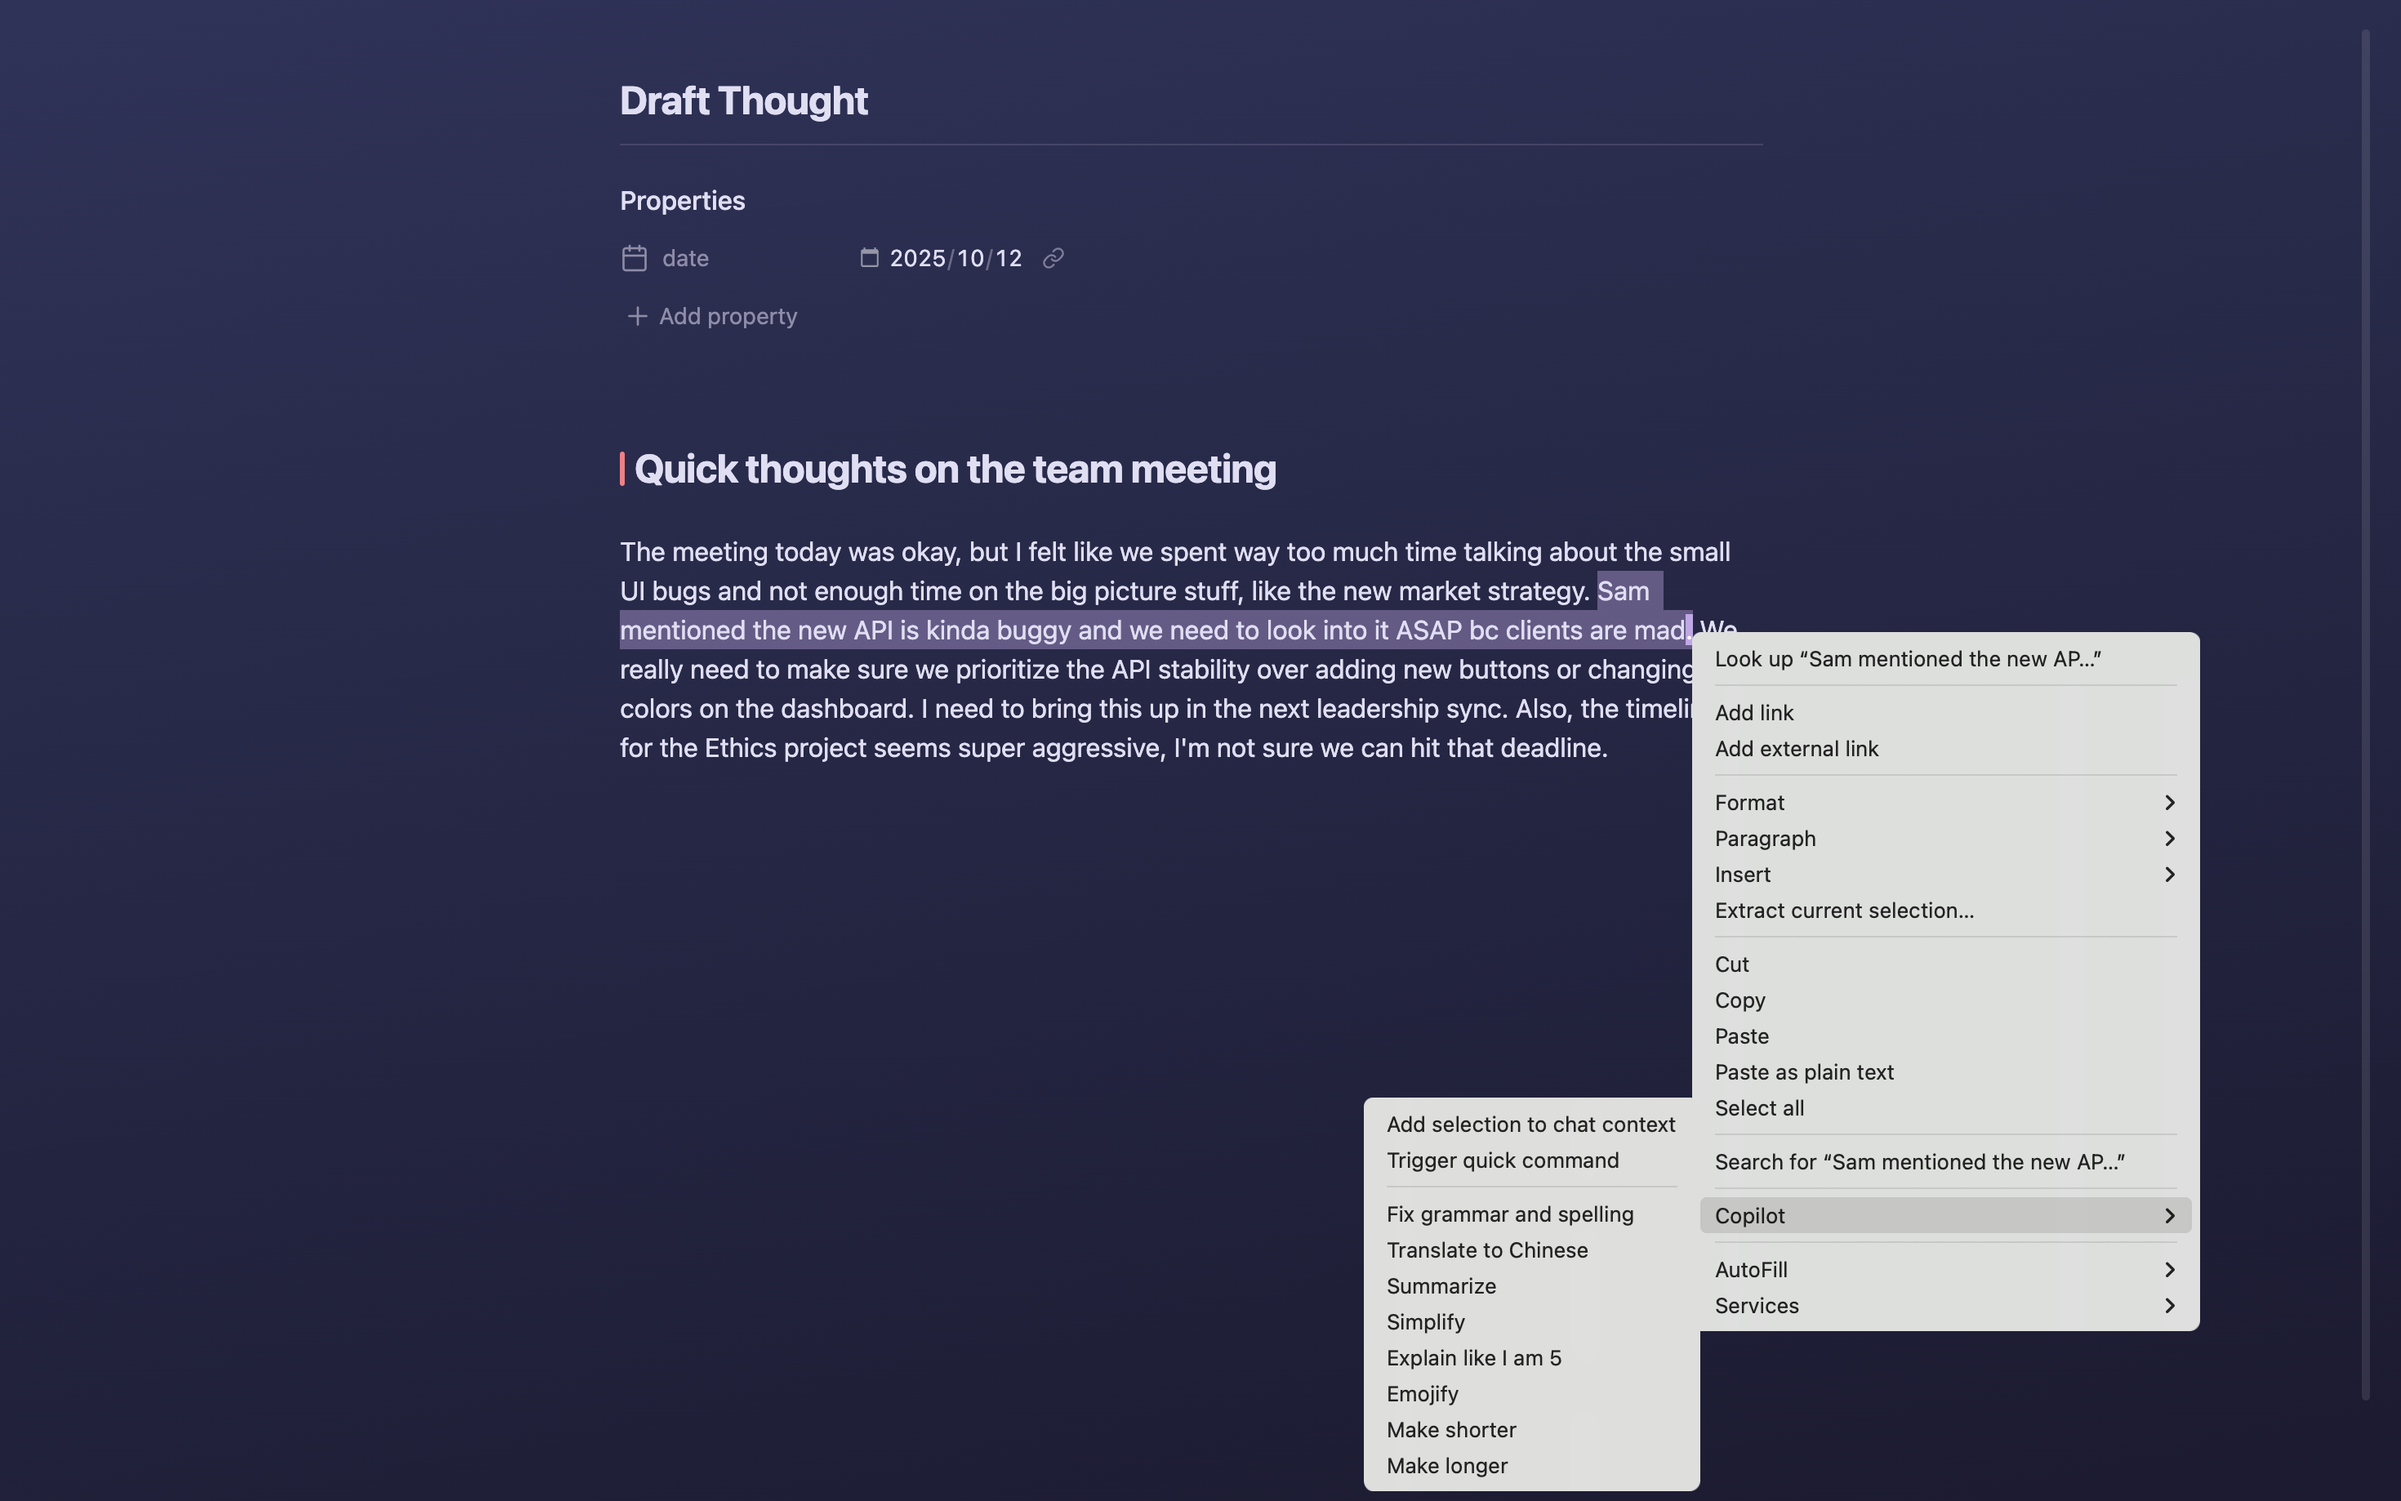
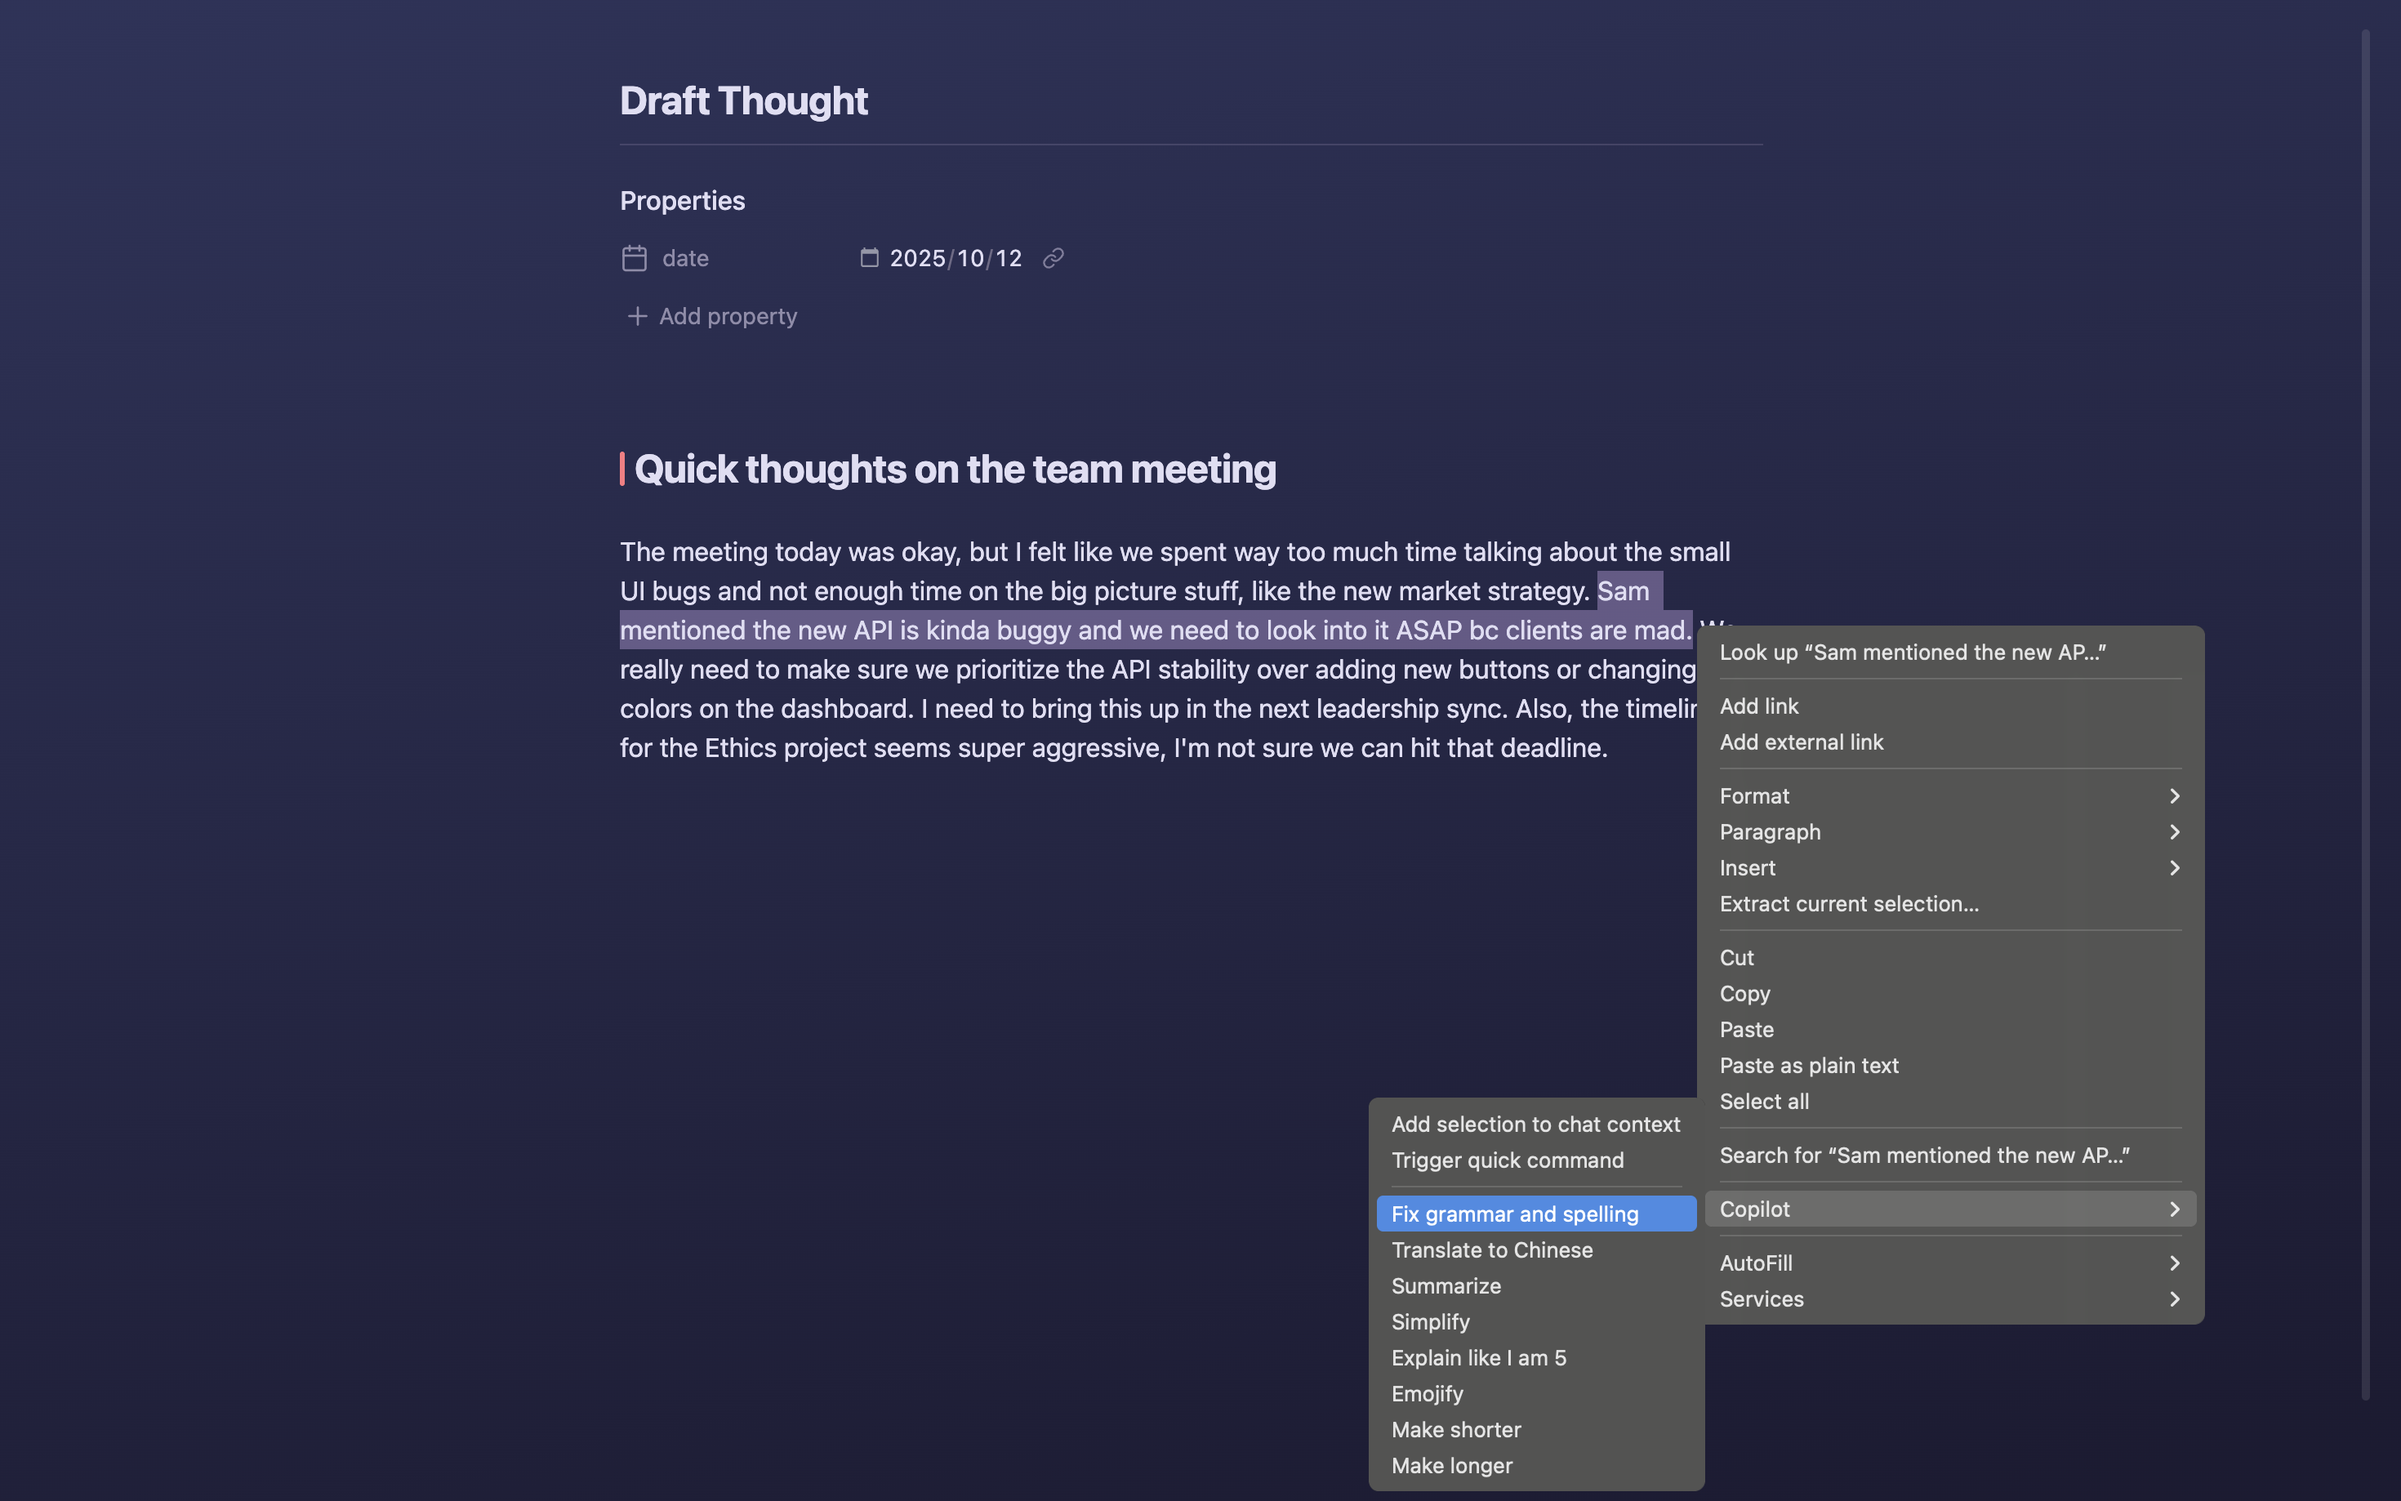
added create command, quick command and add selection to context section

Changed region(s): [[0.5571, 0.4032, 0.9286, 1.0]]

diff --git a/README.md b/README.md
@@ -85,7 +85,7 @@ Read the [Changelog](https://github.com/logancyang/obsidian-copilot/releases/tag
 **Free User**
 
 1. Go to **Obsidian → Settings → Copilot → Basic** and click **Set Keys**.
-2. Choose your AI provider(s) (e.g., **OpenRouter, Gemini, OpenAI, Anthropic, Cohere**) and paste ****your ****API ****key(s)**. OpenRouter is recommended.**
+2. Choose your AI provider(s) (e.g., **OpenRouter, Gemini, OpenAI, Anthropic, Cohere**) and paste your API key(s). **OpenRouter is recommended.**
 
 **Copilot Plus/Believer**
 
@@ -96,7 +96,7 @@ Read the [Changelog](https://github.com/logancyang/obsidian-copilot/releases/tag
 
 ### Free User
 
-**Chat Mode: reference notes and discuss ideas with Copilot**
+#### **Chat Mode: reference notes and discuss ideas with Copilot**
 
 Use `@` to add context and chat with your note.
 
@@ -105,43 +105,68 @@ Use `@` to add context and chat with your note.
 </p>
 
 Ask Copilot:
-  > "Summarize [[Q3 Retrospective]] and identify the top 3 action items for Q4 based on the notes in {{01-Projects}}"
+  > *Summarize [[Q3 Retrospective]] and identify the top 3 action items for Q4 based on the notes in {01-Projects}.*
 
 <p align="center">
     <img src="./images/Chat-Mode.png" alt="Chat Mode" width="700" height="394">
 </p>
 
-**Vault QA Mode: chat with your entire vault**
+#### **Vault QA Mode: chat with your entire vault**
 
 Ask Copilot:
-  > "What are the recurring themes in my research regarding the intersection of AI and SaaS?"
+  > *What are the recurring themes in my research regarding the intersection of AI and SaaS?*
 
 
 <p align="center">
     <img src="./images/Vault-Mode.png" alt="Vault Mode" width="700" height="394">
 </p>
 
+#### Copilot's Command Palette
+Copilot's Command Palette puts powerful AI capabilities at your fingertips. Access all commands in chat window via `/` or via
+right-click menu on selected text.
+
+**Add selection to chat context**
+
+Select text and add it to context. Recommend shortcut: `ctrl/cmd + L`
+
+<p align="center">
+    <img src="./images/Add-Selection-to-Context.png" alt="Add Selection to Context" width="700" height="394">
+</p>
+
+**Quick Command**
+
+Select text and apply action without opening chat. Recommend shortcut: `ctrl/cmd + K`
+
+
+<p align="center">
+    <img src="./images/Quick-Command.png" alt="Quick Command" width="700" height="394">
+</p>
+
+
 **Edit and Apply with One Click**
 
 Select text and edit with one RIGHT click.
-
-**Tip:** Set up and customize your right-click menu with common actions you use often, like _"Summarize"_, _"Simplify Language"_, or _"Translate to Formal Tone"_—so you can apply them effortlessly while you write.
 
 <p align="center">
     <img src="./images/One-Click-Commands.png" alt="One-Click Commands" width="700" height="394">
 </p>
 
-**Prompt Palette: automate your workflow**
+**Create your Command**
 
-Type `/` to use Prompt Palette in chat window.
+Create commands and workflows in `Settings → Copilot → Command → Add Cmd`.
 
-**Tip:** Create shortcuts for your most-used actions—like _"Translate to Spanish"_ or _"Draft a blog post outline"_—and trigger them instantly with typing `/` !
+<p align="center">
+    <img src="./images/Create-Command.png" alt="Create Command" width="700" height="394">
+</p>
+
+**Command Palette in Chat**
+Type `/` to use Command Palette in chat window.
 
 <p align="center">
     <img src="./images/Prompt-Palette.png" alt="Prompt Palette" width="700" height="394">
 </p>
 
-**Relevant Notes: notes suggestions based on semantic similarity and links**
+#### **Relevant Notes: notes suggestions based on semantic similarity and links**
 
 Appears automatically when there's useful related content and links.
 
@@ -155,45 +180,45 @@ Use it to quickly reference past research, ideas, or decisions—no need to sear
 
 Copilot Plus brings powerful AI agentic capabilities, context-aware actions and seamless tool integration—built to elevate your knowledge work in Obsidian.
 
-**Get Precision Insights From a Specific Time Window**
+#### **Get Precision Insights From a Specific Time Window**
 
-  > "Summarize everything I worked on last week in {{01-Projects}} folder"
+  > *Summarize everything I worked on last week in {{01-Projects}} folder.*
 
 <p align="center">
     <img src="./images/Time-Based-Queries.png" alt="Time-Based Queries" width="700" height="394">
 </p>
 
-**Agent Mode: Autonomous Tool Calling**
+#### **Agent Mode: Autonomous Tool Calling**
 
 Copilot's agent automatically calls the right tools—no manual commands needed. Just ask, and it searches the web, queries your vault, and combines insights seamlessly.
 
 Ask Copilot in agent mode:
 
-  > "Research web and my vault and draft a note on AI SaaS onboarding best practices"
+  > *Research web and my vault and draft a note on AI SaaS onboarding best practices.*
 
 <p align="center">
     <img src="./images/Agent-Mode.png" alt="Agent Mode" width="700" height="394">
 </p>
 
-**Understand Images in Your Notes**
+#### **Understand Images in Your Notes**
 
 Copilot can analyze images embedded in your notes—from wireframes and diagrams to screenshots and photos. Get detailed feedback, suggestions, and insights based on visual content.
 
 Ask Copilot to analyze your wireframes:
 
-  > "Analyze the wireframe in [[UX Design - Mobile App Wireframes]] and suggest improvements for the navigation flow"
+  > *Analyze the wireframe in [[UX Design - Mobile App Wireframes]] and suggest improvements for the navigation flow.*
 
 <p align="center">
     <img src="./images/Note-Image.png" alt="Image Understanding" width="700" height="394">
 </p>
 
-**One Prompt, Every Source—Instant Summaries from PDFs, Videos, and Web**
+#### **One Prompt, Every Source—Instant Summaries from PDFs, Videos, and Web**
 
 
 In agent mode, ask Copilot
 
-  > "Compare the information about [Agent Memory] from this youtube video: [URL], this PDF [file], and @web[search results]. Start with your
-     conclusion in bullet points in your response"
+  > *Compare the information about [Agent Memory] from this youtube video: [URL], this PDF [file], and @web[search results]. Start with your
+     conclusion in bullet points in your response*
 
 
 
